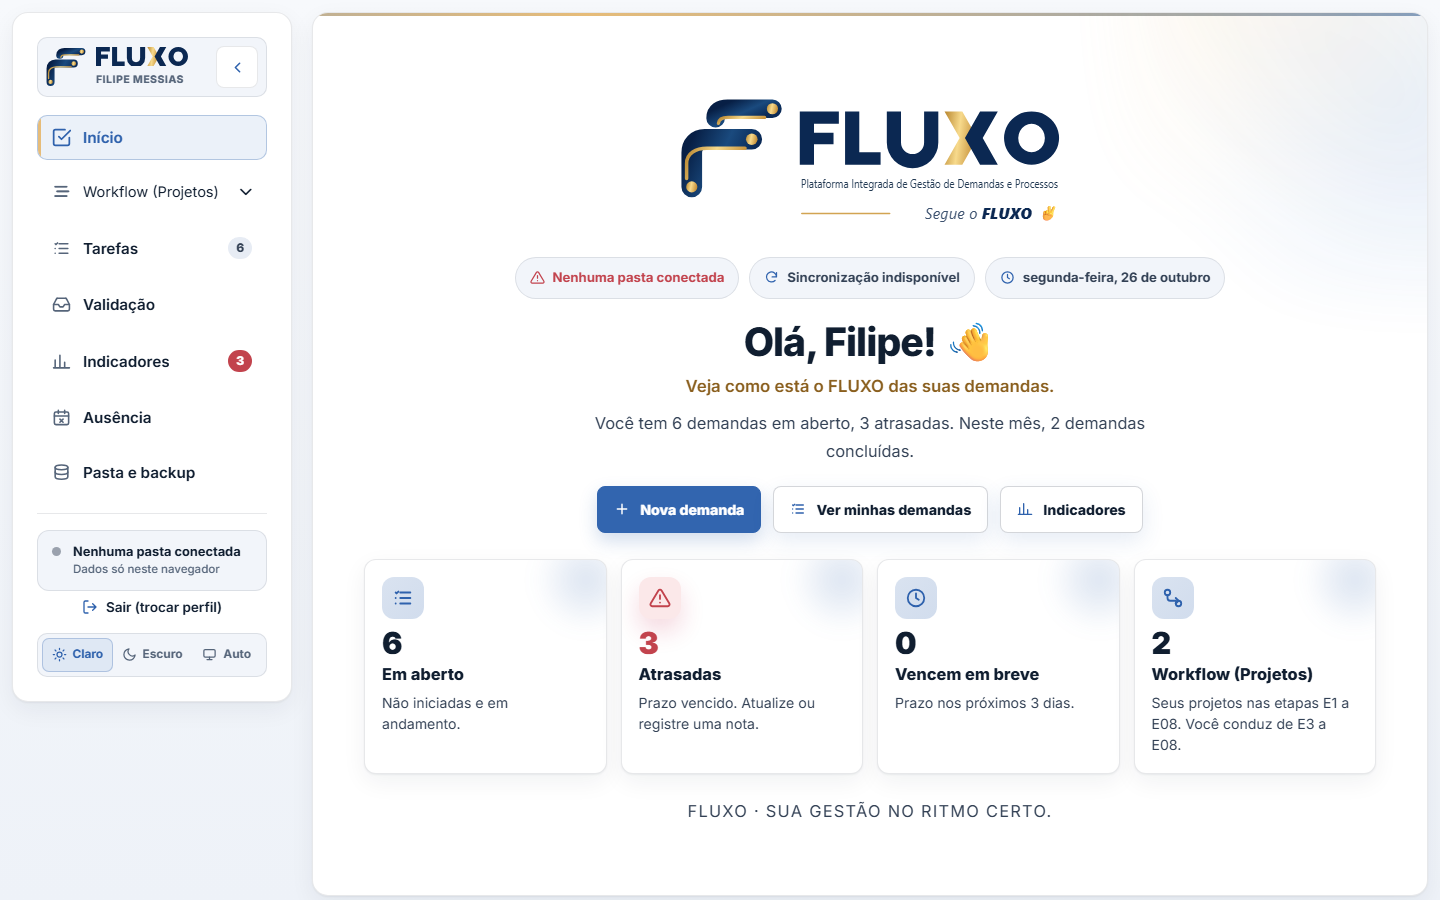
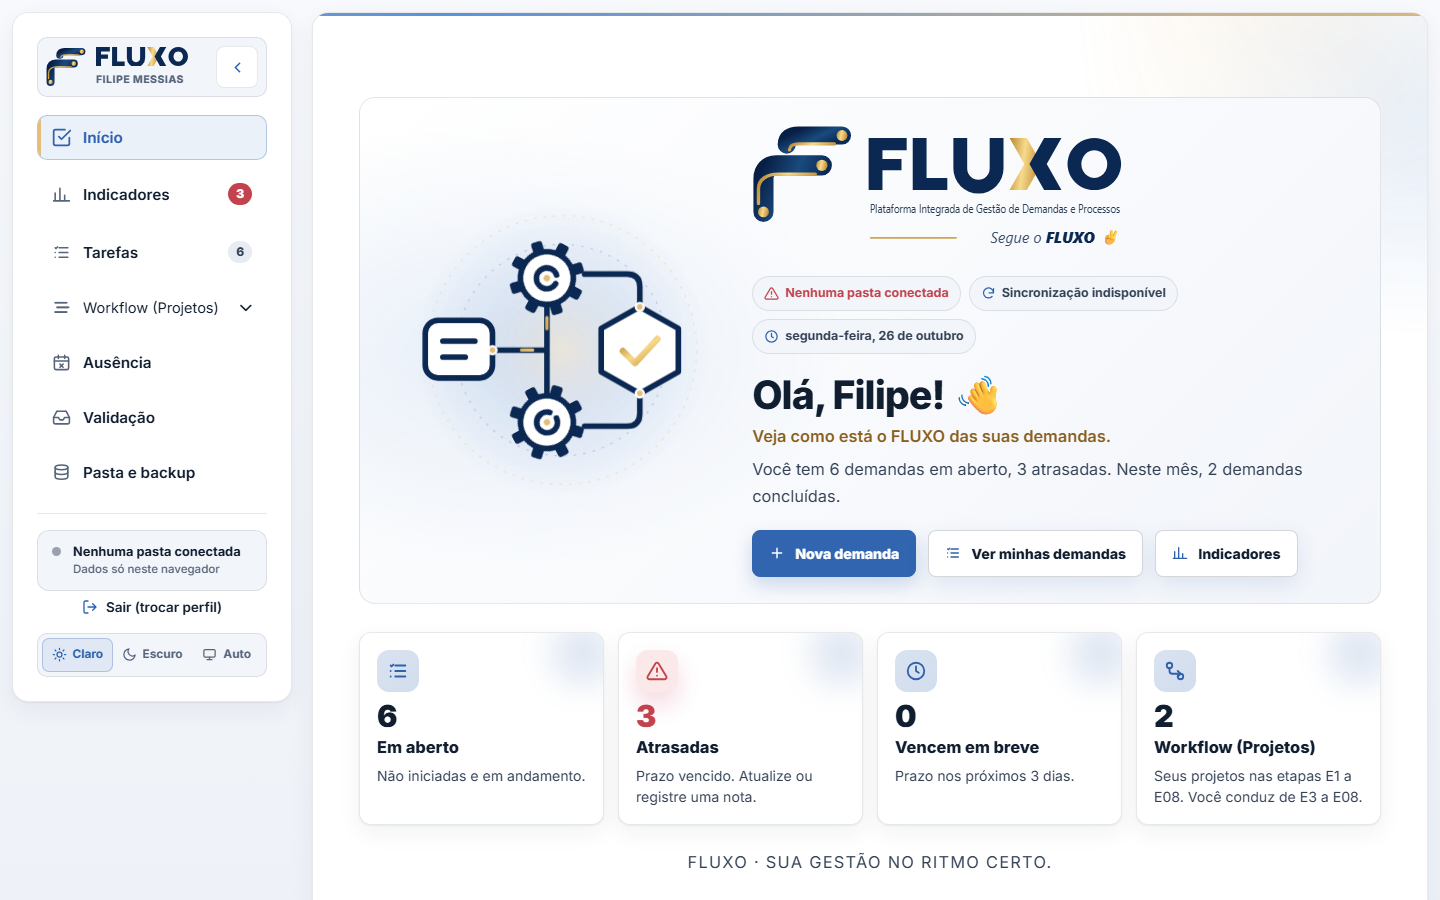
feat: capa do Início com ilustração animada do fluxo ao lado da marca
Ilustração vetorial (documento, engrenagens e hexágono de aprovação) nas
cores da marca, com engrenagens girando, pulsos de dados nas conexões,
documento flutuando, aprovação pulsando e halo/órbitas ao fundo.
Acompanha os temas, respeita prefers-reduced-motion e empilha abaixo de
1100 px. Logo, estados, saudação e ações passam para a coluna direita.

diff --git a/02-usuario/app/fluxo.css b/02-usuario/app/fluxo.css
@@ -335,3 +335,67 @@ dialog[open] { animation: fxPop var(--fx-base) var(--fx-ease); }
 .fx-home-marca { margin: 0 auto 22px; }
 .fx-home-marca img { width: min(380px, 82vw); height: auto; }
 @media (max-width: 760px) { .fx-home-marca img { width: min(300px, 86vw); } }
+
+/* ============ 11. Capa do Início: ilustração animada + marca ============ */
+.fx-capa { --fx-capa-traco: #0B2852; --fx-capa-fundo: #FFFFFF; display: grid; grid-template-columns: minmax(220px, .72fr) minmax(0, 1.28fr); gap: 26px; align-items: center; width: 100%; margin: 0 0 6px; padding: 26px 30px; border: 1px solid var(--fx-line); border-radius: var(--fx-radius-lg); background: radial-gradient(520px 320px at 12% 50%, rgba(57, 116, 198, .10), transparent 70%), linear-gradient(135deg, var(--fx-surface) 0%, var(--fx-surface-2) 100%); text-align: left; overflow: hidden; }
+:root[data-theme="dark"] .fx-capa { --fx-capa-traco: #E2E8F0; --fx-capa-fundo: #192B41; }
+@media (prefers-color-scheme: dark) { :root:not([data-theme="light"]) .fx-capa { --fx-capa-traco: #E2E8F0; --fx-capa-fundo: #192B41; } }
+.fx-capa-arte { position: relative; }
+.fx-capa-svg { display: block; width: 100%; max-width: 340px; height: auto; margin: 0 auto; overflow: visible; }
+.fx-capa-conteudo { min-width: 0; }
+.fx-capa-conteudo .fx-home-marca { margin: 0 0 18px; }
+.fx-capa-conteudo .fx-home-marca img { width: min(370px, 100%); }
+.fx-capa-conteudo .status-pill { padding: 7px 11px; font-size: .78rem; gap: 6px; }
+.fx-capa-conteudo .status-badges { gap: 8px; }
+.welcome-section { max-width: 1120px; }
+.fx-capa-conteudo .status-badges { justify-content: flex-start; margin: 0 0 18px; }
+.fx-capa-conteudo h2 { margin: 0 0 6px; text-align: left; }
+.fx-capa-conteudo p { margin: 0; color: var(--fx-ink-2); font-size: 1.02rem; line-height: 1.65; }
+.fx-capa-conteudo p.fx-kicker { margin: 0 0 6px; color: var(--fx-brand-ink); font-weight: 600; }
+.fx-capa-conteudo .primary-actions { justify-content: flex-start; margin: 20px 0 0; }
+
+/* Traços da ilustração (seguem o tema) */
+.fx-capa-linhas path, .fx-capa-doc rect, .fx-capa-doc path, .fx-capa-aro, .fx-capa-seta, .fx-capa-hex path:first-child { fill: none; stroke: var(--fx-capa-traco); stroke-width: 7; stroke-linecap: round; stroke-linejoin: round; }
+.fx-capa-doc rect, .fx-capa-aro, .fx-capa-hex path:first-child { fill: var(--fx-capa-fundo); }
+.fx-capa-dentes rect { fill: var(--fx-capa-traco); }
+.fx-capa-eixo { fill: #E6BC79; }
+.fx-capa-check { fill: none; stroke: url(#fxCapaOuro); stroke-width: 8; stroke-linecap: round; stroke-linejoin: round; stroke-dasharray: 64; stroke-dashoffset: 64; animation: fxCheck 1.1s .5s var(--fx-ease) forwards; }
+.fx-capa-no { fill: #E6BC79; stroke: var(--fx-capa-fundo); stroke-width: 3; }
+.fx-capa-orbita { fill: none; stroke: rgba(230, 188, 121, .35); stroke-width: 1.5; stroke-dasharray: 3 9; transform-origin: 215px 200px; animation: fxGira 60s linear infinite; }
+.fx-capa-orbita-2 { stroke: rgba(57, 116, 198, .30); animation-duration: 40s; animation-direction: reverse; }
+
+/* Efeitos: engrenagens girando, dados fluindo, documento flutuando e aprovação pulsando */
+.fx-capa-gear { transform-box: fill-box; transform-origin: center; }
+.fx-gear-a { animation: fxGira 9s linear infinite; }
+.fx-gear-b { animation: fxGira 9s linear infinite reverse; }
+.fx-capa-fluxo path { fill: none; stroke: url(#fxCapaOuro); stroke-width: 4; stroke-linecap: round; stroke-dasharray: 14 220; animation: fxFluxo 2.8s linear infinite; }
+.fx-capa-fluxo .fx-atraso-1 { animation-delay: .7s; }
+.fx-capa-fluxo .fx-atraso-2 { animation-delay: 1.4s; }
+.fx-capa-fluxo .fx-atraso-3 { animation-delay: 2.1s; }
+.fx-capa-doc { animation: fxFlutua 4.5s ease-in-out infinite; }
+.fx-capa-hex { transform-box: fill-box; transform-origin: center; animation: fxPulso 3.2s ease-in-out infinite; }
+.fx-capa-halo { transform-origin: 215px 200px; animation: fxRespira 6s ease-in-out infinite; }
+.fx-capa:hover .fx-gear-a, .fx-capa:hover .fx-gear-b { animation-duration: 4.5s; }
+@keyframes fxGira { to { transform: rotate(360deg); } }
+@keyframes fxFluxo { from { stroke-dashoffset: 234; } to { stroke-dashoffset: 0; } }
+@keyframes fxFlutua { 0%, 100% { transform: translateY(0); } 50% { transform: translateY(-6px); } }
+@keyframes fxPulso { 0%, 100% { transform: scale(1); filter: drop-shadow(0 0 0 rgba(230, 188, 121, 0)); } 50% { transform: scale(1.04); filter: drop-shadow(0 0 14px rgba(230, 188, 121, .55)); } }
+@keyframes fxRespira { 0%, 100% { opacity: .75; transform: scale(.97); } 50% { opacity: 1; transform: scale(1.03); } }
+@keyframes fxCheck { to { stroke-dashoffset: 0; } }
+@media (prefers-reduced-motion: reduce) {
+  .fx-capa-check { stroke-dashoffset: 0; }
+  .fx-capa-fluxo { display: none; }
+}
+@media (max-width: 1100px) {
+  .fx-capa { grid-template-columns: 1fr; gap: 10px; padding: 22px 18px; text-align: center; }
+  .fx-capa-svg { max-width: 250px; }
+  .fx-capa-conteudo .fx-home-marca { margin: 0 auto 16px; }
+  .fx-capa-conteudo .fx-home-marca img { margin: 0 auto; }
+  .fx-capa-conteudo .status-badges, .fx-capa-conteudo .primary-actions { justify-content: center; }
+  .fx-capa-conteudo h2 { text-align: center; }
+}
+@media (min-width: 1101px) and (max-width: 1360px) {
+  .fx-capa { grid-template-columns: minmax(200px, .58fr) minmax(0, 1.42fr); gap: 18px; padding: 24px 22px; }
+  .fx-capa-svg { max-width: 270px; }
+  .fx-capa-conteudo .primary-actions .cta, .fx-capa-conteudo .primary-actions .ghost-btn { padding-left: 14px; padding-right: 14px; }
+}

diff --git a/02-usuario/app/pgd.js b/02-usuario/app/pgd.js
@@ -4238,6 +4238,30 @@ function navItems() {
 // Marca oficial FLUXO (ativos em ../app/marca; o CSS exibe a versão do tema ativo)
 const FX_PALAVRA = '<img class="fx-wordmark fx-claro" src="../app/marca/fluxo-wordmark.svg" alt="FLUXO"><img class="fx-wordmark fx-escuro" src="../app/marca/fluxo-wordmark-dark.svg" alt="FLUXO">';
 const FX_MARCA_INICIO = '<div class="fx-home-marca"><img class="fx-claro" src="../app/marca/fluxo-logo-assinatura.svg" alt="FLUXO · Plataforma Integrada de Gestão de Demandas e Processos · Segue o FLUXO"><img class="fx-escuro" src="../app/marca/fluxo-logo-assinatura-dark.svg" alt="FLUXO · Plataforma Integrada de Gestão de Demandas e Processos · Segue o FLUXO"></div>';
+// Capa do Início: ilustração do fluxo (documento → engrenagens → aprovação), animada por CSS (classes fx-capa-*)
+function fxEngrenagem(cx, cy, cls) {
+  const dentes = Array.from({ length:8 }, (_, i) => `<rect x="${cx - 7}" y="${cy - 47}" width="14" height="16" rx="3" transform="rotate(${i * 45} ${cx} ${cy})"/>`).join('');
+  return `<g class="fx-capa-gear ${cls}"><g class="fx-capa-dentes">${dentes}</g><circle cx="${cx}" cy="${cy}" r="33" class="fx-capa-aro"/><path d="M${cx + 9} ${cy - 9}a13 13 0 1 0 4 10" class="fx-capa-seta"/><circle cx="${cx}" cy="${cy}" r="4" class="fx-capa-eixo"/></g>`;
+}
+const FX_CAPA_ARTE = `<svg class="fx-capa-svg" viewBox="0 0 420 400" role="img" aria-label="Fluxo de demandas: solicitação, processamento e aprovação">
+  <defs>
+    <radialGradient id="fxCapaBrilho" cx="50%" cy="50%" r="50%"><stop offset="0" stop-color="#E6BC79" stop-opacity=".30"/><stop offset=".55" stop-color="#3974C6" stop-opacity=".12"/><stop offset="1" stop-color="#3974C6" stop-opacity="0"/></radialGradient>
+    <linearGradient id="fxCapaOuro" x1="0" y1="0" x2="1" y2="1"><stop offset="0" stop-color="#B8862F"/><stop offset=".5" stop-color="#F7DA8C"/><stop offset="1" stop-color="#C6913A"/></linearGradient>
+  </defs>
+  <circle cx="215" cy="200" r="190" fill="url(#fxCapaBrilho)" class="fx-capa-halo"/>
+  <circle cx="215" cy="200" r="168" class="fx-capa-orbita"/>
+  <circle cx="215" cy="200" r="132" class="fx-capa-orbita fx-capa-orbita-2"/>
+  <g class="fx-capa-linhas"><path d="M128 200H196M196 200V122M196 200V278M243 105H296Q312 105 312 121V146M243 295H296Q312 295 312 279V254"/></g>
+  <g class="fx-capa-fluxo">
+    <path d="M128 200H196V122"/><path d="M128 200H196V278" class="fx-atraso-1"/>
+    <path d="M243 105H296Q312 105 312 121V146" class="fx-atraso-2"/><path d="M243 295H296Q312 295 312 279V254" class="fx-atraso-3"/>
+  </g>
+  <g class="fx-capa-doc"><rect x="44" y="164" width="84" height="72" rx="16"/><path d="M66 190H106M66 210H94"/></g>
+  ${fxEngrenagem(196, 110, 'fx-gear-a')}
+  ${fxEngrenagem(196, 290, 'fx-gear-b')}
+  <g class="fx-capa-hex"><path d="M312 146L360 173V227L312 254L264 227V173Z"/><path d="M291 201L306 216L334 186" class="fx-capa-check"/></g>
+  <circle cx="128" cy="200" r="5" class="fx-capa-no"/><circle cx="312" cy="146" r="5" class="fx-capa-no"/><circle cx="312" cy="254" r="5" class="fx-capa-no"/>
+</svg>`;
 function renderNav() {
   const isSup = isTeam();
   const all = isSup ? teamTasks() : data.tasks;
@@ -4436,12 +4460,17 @@ function renderHome() {
     if (ss.length) extra += `<p class="banner info"><span>${I.away} Você está respondendo por ${ss.map(s => `<b>${esc(s.supervisor)}</b> (até ${fmtDate(ausOf(s.id).fim)})`).join(', ')}. Designe, altere prazos, escreva notas e responda às solicitações na tela Substituição.</span><button class="btn sm primary" data-act="go" data-view="substituicao">Abrir substituição</button></p>`;
   }
   $('#homeArea').innerHTML = `
-    ${FX_MARCA_INICIO}
-    <div class="status-badges">${pills.join('')}</div>
-    <h2>Olá${who ? `, ${esc(who)}` : ''}! 👋</h2>
-    <p class="fx-kicker">${isSup ? 'Veja como está o FLUXO da sua equipe.' : 'Veja como está o FLUXO das suas demandas.'}</p>
-    <p>${esc(lead)}</p>
-    <div class="primary-actions">${actions}</div>
+    <section class="fx-capa" aria-label="Apresentação">
+      <div class="fx-capa-arte" aria-hidden="true">${FX_CAPA_ARTE}</div>
+      <div class="fx-capa-conteudo">
+        ${FX_MARCA_INICIO}
+        <div class="status-badges">${pills.join('')}</div>
+        <h2>Olá${who ? `, ${esc(who)}` : ''}! 👋</h2>
+        <p class="fx-kicker">${isSup ? 'Veja como está o FLUXO da sua equipe.' : 'Veja como está o FLUXO das suas demandas.'}</p>
+        <p class="fx-capa-lead">${esc(lead)}</p>
+        <div class="primary-actions">${actions}</div>
+      </div>
+    </section>
     ${extra ? `<div class="home-extra">${extra}</div>` : ''}
     <div class="feature-grid">${cards}</div>
     <p class="fx-assinatura">FLUXO · Sua gestão no ritmo certo.</p>`;

diff --git a/02-usuario/app/marca/README.md b/02-usuario/app/marca/README.md
@@ -42,7 +42,7 @@ A palavra FLUXO é desenhada como vetor (não é texto em fonte). Por isso apare
 | --- | --- |
 | Menu lateral expandido | Símbolo + palavra FLUXO + nome do usuário (dinâmico), no cartão do cabeçalho |
 | Menu lateral recolhido | Só o símbolo |
-| Início (analista e supervisão) | Logo completa com descrição e slogan, abrindo a página, antes dos estados da pasta, da saudação, das ações e dos indicadores |
+| Início (analista e supervisão) | Capa em duas colunas: à esquerda, a ilustração animada do fluxo; à direita, a logo completa com descrição e slogan, seguida dos estados da pasta, da saudação e das ações. Os indicadores vêm abaixo |
 | Login: área institucional | Logo completa (versão escura) no topo esquerdo |
 | Login: cartão de acesso | Símbolo + FLUXO, acima de "Acesse o FLUXO" |
 | Telas internas (Tarefas, Workflow, Indicadores, Validação, Ausência, Pasta e backup, Dashboard) | Marca compacta do menu lateral; a logo completa não se repete |
@@ -52,6 +52,20 @@ Cada local carrega a versão clara e a escura do ativo. A regra `.fx-claro` / `.
 - no motor: constantes `FX_PALAVRA` e `FX_MARCA_INICIO` em `../pgd.js`;
 - no menu: símbolo em `../pgd-markup.js`;
 - no login: em `01-login/index.html`.
+
+## Ilustração da capa do Início
+
+É uma ilustração em vetor, desenhada nas cores da marca a partir do ícone de processo (documento → duas engrenagens → hexágono de aprovação). Fica embutida em `../pgd.js` (`FX_CAPA_ARTE`), com o estilo e as animações em `../fluxo.css` (seção 11). As animações são:
+
+- engrenagens girando em sentidos opostos, mais rápidas ao passar o mouse;
+- pulsos dourados percorrendo as conexões;
+- documento flutuando;
+- hexágono pulsando com brilho dourado e o check se desenhando;
+- halo e órbitas girando ao fundo.
+
+Os traços acompanham o tema: azul-marinho no claro, quase branco no escuro. Com `prefers-reduced-motion`, os movimentos são desligados.
+
+Abaixo de 1100 px, a capa vira uma coluna, com a ilustração acima da marca.
 
 ## Diferenças conhecidas em relação à prancha
 
@@ -68,3 +82,4 @@ Geradas no Microsoft Edge (1440 × 900; celular 390 px), com o sistema rodando:
 - `05-menu-recolhido.png`.
 - `06-supervisao-inicio-claro.png`, `07-supervisao-inicio-escuro.png`.
 - `09-workflow-claro.png`, `10-tarefas-escuro.png`, `11-indicadores-claro.png`.
+- `13-inicio-notebook.png`: capa em 1280 px.

diff --git a/README.md b/README.md
@@ -189,7 +189,7 @@ Os dois painéis usam o mesmo motor (`pgd.js`). O `mode` do preset decide o menu
 
 | Item | Para que serve |
 | --- | --- |
-| **Início** | Boas-vindas com cartões de atalho (em aberto, atrasadas, vencem em breve, Workflow). |
+| **Início** | Capa com a ilustração animada do fluxo e a logo FLUXO lado a lado. Em seguida, boas-vindas com cartões de atalho (em aberto, atrasadas, vencem em breve, Workflow). |
 | **Indicadores** | Cartões por situação, itens que pedem atenção, régua de prazos, tabela por assunto e ritmo da semana. |
 | **Tarefas** | Lista e quadro das suas demandas: filtros, nova demanda, notas de andamento, anexos, recorrência, relatório em PDF/Excel. |
 | **Workflow (Projetos)** (grupo) | O título só abre e fecha a lista, com animação. Dentro ficam **Workflow** (tracker) e **E3 — Levantamento**, **E4 — Execução**, **E5 — Validação**, **E6 — Ajustes**, **E7 — Entrega**, **E08 — Hypercare** (seção 6). A lista começa fechada e já vem aberta quando a tela atual é do Workflow. |
